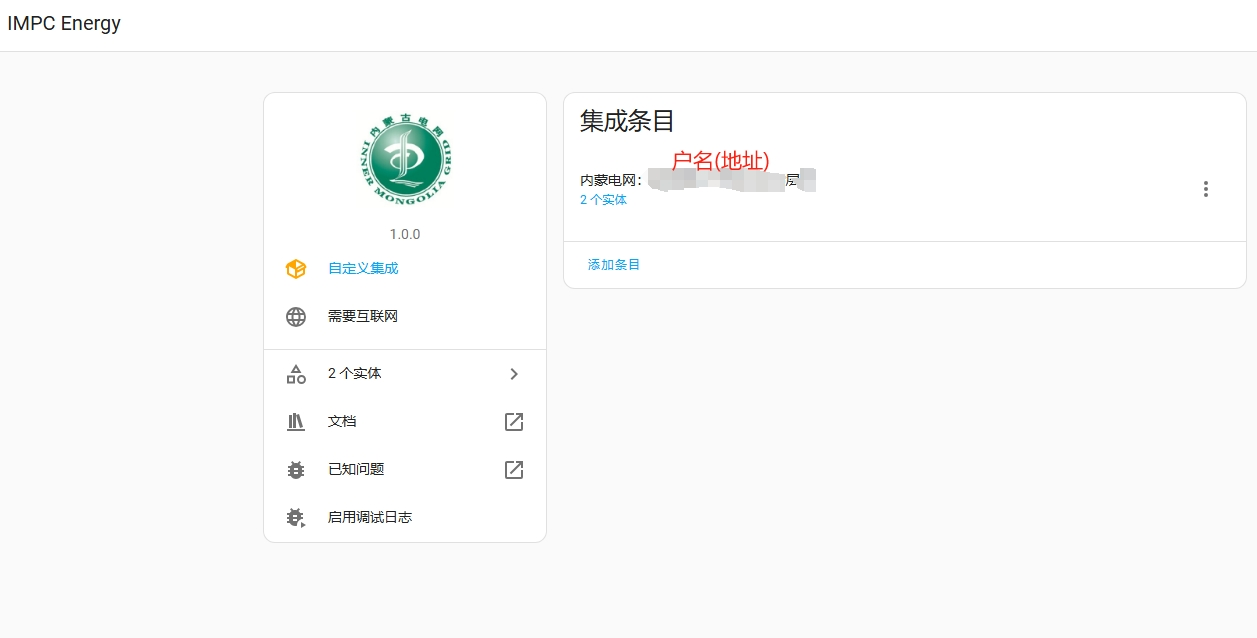
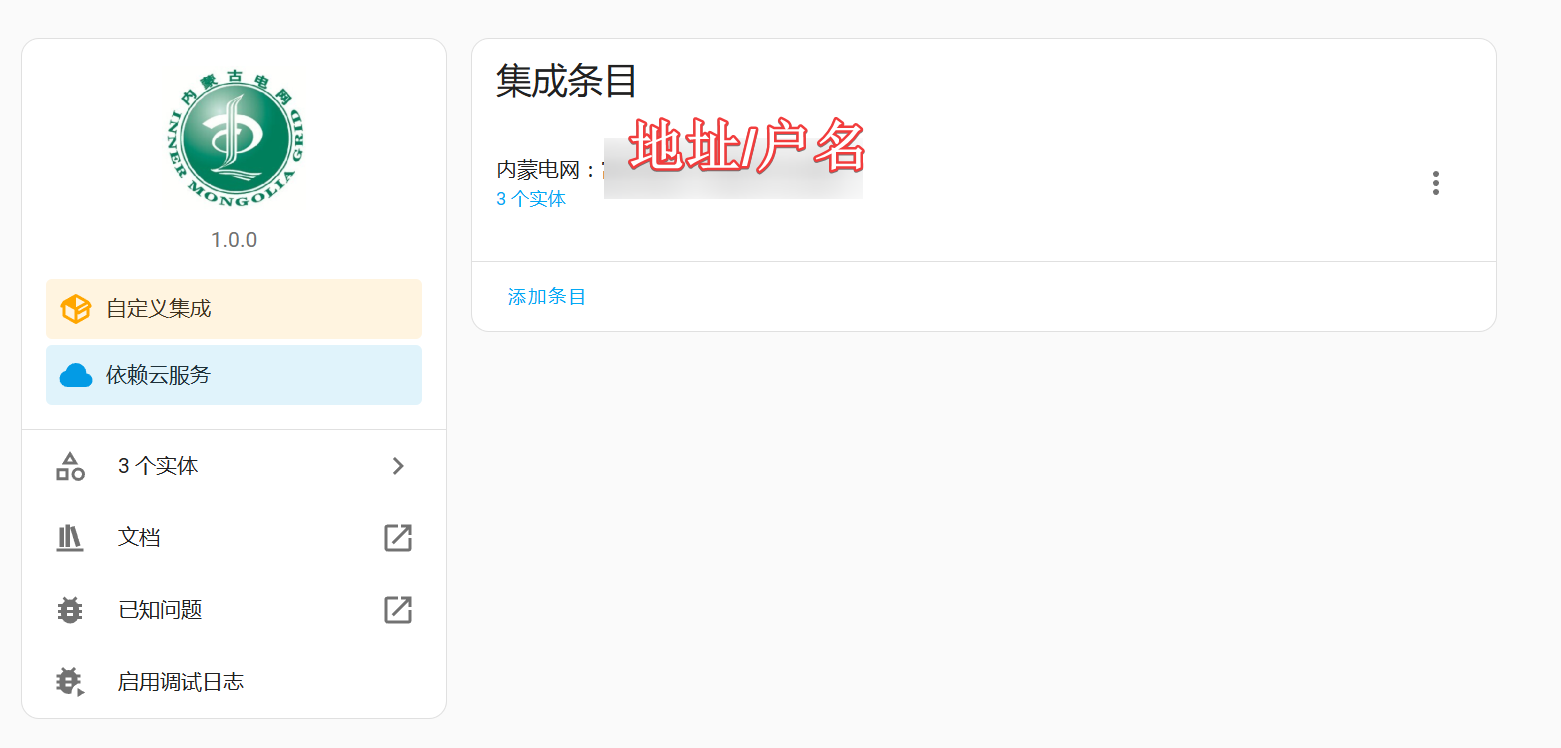
更新文档

diff --git a/README.md b/README.md
@@ -46,6 +46,7 @@
   如果不输入户名, 则集成会尝试使用获取到的户名(多数情况下为住址)作为户名
 
   ![image](https://github.com/NiaoBlush/impc_energy/blob/master/img/config_helper.png?raw=true)
++ 如果勾选`是否继续配置蒙电e家app`, 则需要输入app的用户名和密码, 配置蒙电e家后可以获取每日用电量
 
 + 等待配置完成
 
@@ -65,8 +66,9 @@
 
 ## 传感器
 
-插件会为每个家庭添加两个传感器 剩余电费 与 历史
+插件会为每个家庭添加3个传感器 `电费余额`, `历史电费`与`每日电量`
 ![image](https://github.com/NiaoBlush/impc_energy/blob/master/img/entities_created.png?raw=true)
+![image](https://github.com/NiaoBlush/impc_energy/blob/master/img/entities_detail.png?raw=true)
 
 电费余额是结算余额，所以理论上数值一个月才会改变一次(交了电费也可能改变，没有测试)
 ![image](https://github.com/NiaoBlush/impc_energy/blob/master/img/20230316221605.png?raw=true)
@@ -75,11 +77,18 @@
 "历史"实体中展示的数据是本期电费
 ![image](https://github.com/NiaoBlush/impc_energy/blob/master/img/history_bill.png?raw=true)
 
+每日电量会展示最近30天的每日用电量
+![image](https://github.com/NiaoBlush/impc_energy/blob/master/img/sensor_daily_consumption.png)
+
+> 有时会有负值是因为接口返回的就是负数, 不知道为什么
+
 ## 卡片配置
 
 利用图表卡片 [apexcharts-card](https://github.com/RomRider/apexcharts-card)
 可以实现如下的效果:
+
 ![image](https://github.com/NiaoBlush/impc_energy/blob/master/img/20240409174425.png?raw=true)
+![image](https://github.com/NiaoBlush/impc_energy/blob/master/img/chart_daily_consumption.png?raw=true)
 
 (x轴步长没有生效可能是这个图表库的问题)
 
@@ -169,6 +178,52 @@ cards:
           }
           //console.log("data2", data);
           return data;
+
+  - type: custom:apexcharts-card
+    header:
+      show: true
+      title: 每日用电
+      show_states: false
+      colorize_states: true
+    graph_span: 30d
+    apex_config:
+      legend:
+        position: top
+      xaxis:
+        stepSize: 1
+        tooltip:
+          enabled: false
+        labels:
+          datetimeFormatter:
+            year: ''
+            month: ''
+            day: d日
+      tooltip:
+        x:
+          format: yyyy年MM月dd日
+    series:
+      - name: 日用电量
+        entity: sensor.impc_energy_011xxxxxx970_daily_consumption
+        color: 4D55CC
+        unit: kW⋅h
+        show:
+          datalabels: false
+          legend_value: false
+        data_generator: |
+          const data=[];
+          const attributes=entity.attributes;
+          for(let item in attributes){
+            if(item&&item.startsWith("20")){
+              //2024-03-01
+              const timeStr=`${item}T00:00:00`;
+              const dataObj=new Date(timeStr);
+              data.push([dataObj.getTime(),attributes[item]]);
+              //data.push([item, attributes[item]]);
+            }
+          }
+          console.log("data3", data);
+          return data;
+
 
 ```
 
